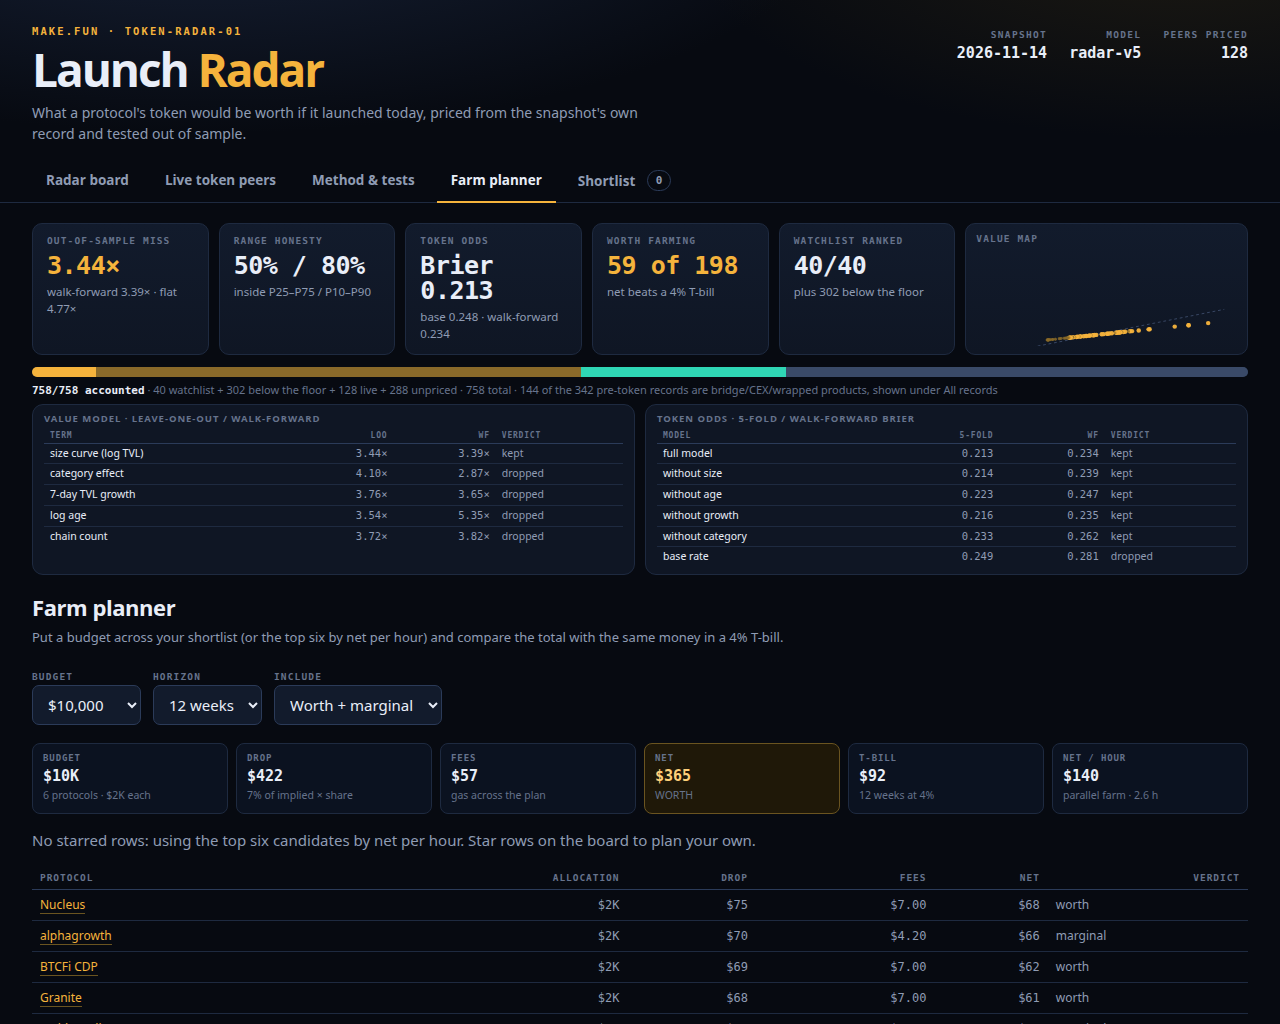
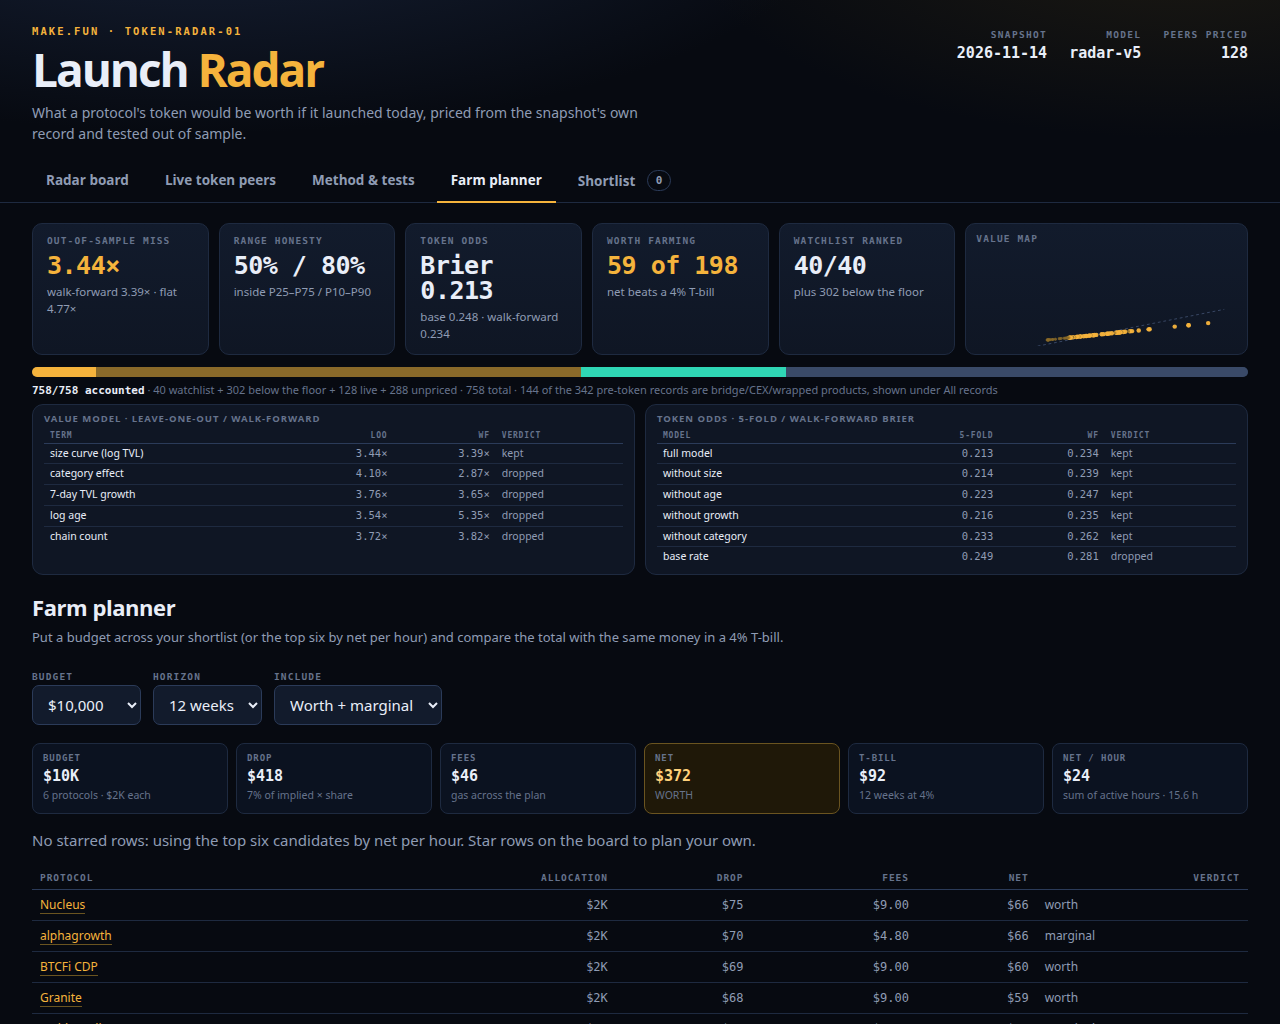
Fix the farm economics the review found
Count all three one-off gas steps in the plan fees, sum active hours
across a portfolio instead of taking the max, and filter the planner's
worth-only view on the verdict at the allocated size rather than the
10,000-dollar verdict.

diff --git a/dashboard/app.js b/dashboard/app.js
@@ -659,24 +659,39 @@
     var horizon = Number($('#planHorizon').value) || 12;
     var risk = $('#planRisk').value;
     var owned = R.rows.filter(function (r) { return pins.has(r.slug); });
-    var chosen = owned.length ? owned : R.rows.filter(function (r) { return r.candidate && r.plan.verdict !== 'skip'; }).sort(function (a, b) { return b.plan.perHour - a.plan.perHour; }).slice(0, 6);
-    if (risk === 'worth') chosen = chosen.filter(function (r) { return r.plan.verdict === 'worth'; });
+    var pool = owned.length ? owned : R.rows.filter(function (r) { return r.candidate && r.plan.verdict !== 'skip'; }).sort(function (a, b) { return b.plan.perHour - a.plan.perHour; }).slice(0, 6);
+    if (risk === 'worth') {
+      var probe = budget / Math.max(1, pool.length);
+      for (var pass = 0; pass < 5; pass++) {
+        var kept = pool.filter(function (r) { return farm(r, probe, horizon).verdict === 'worth'; });
+        if (kept.length === 0) { pool = []; break; }
+        var next = budget / kept.length;
+        if (kept.length === pool.length && Math.abs(next - probe) < 1) { pool = kept; probe = next; break; }
+        pool = kept; probe = next;
+      }
+    }
     var host = $('#planBody');
     host.replaceChildren();
-    if (chosen.length === 0) {
-      host.appendChild(el('p', 'empty', owned.length ? 'No shortlisted row passes this filter. Widen it or star other rows.' : 'No candidate passes this filter. Lower the bar or switch the verdict.'));
+    if (pool.length === 0) {
+      host.appendChild(el('p', 'empty', owned.length ? 'No shortlisted row is worth farming at this budget. Raise the budget or widen the filter.' : 'No candidate is worth farming at this budget. Raise the budget or switch the verdict.'));
       return;
     }
-    var alloc = budget / chosen.length;
-    var rows = chosen.map(function (r) { return { r: r, f: farm(r, alloc, horizon) }; });
+    var alloc = budget / pool.length;
+    var rows = pool.map(function (r) { return { r: r, f: farm(r, alloc, horizon) }; });
+    if (risk === 'worth') {
+      rows = rows.filter(function (x) { return x.f.verdict === 'worth'; });
+      alloc = budget / Math.max(1, rows.length);
+      rows = rows.map(function (x) { return { r: x.r, f: farm(x.r, alloc, horizon) }; });
+    }
+    var chosen = rows.map(function (x) { return x.r; });
     var drop = rows.reduce(function (s, x) { return s + x.f.drop; }, 0);
     var fees = rows.reduce(function (s, x) { return s + x.f.fees; }, 0);
     var net = drop - fees;
     var bench = budget * 0.04 * horizon / 52;
-    var hours = Math.max.apply(null, chosen.map(function (r) { return r.plan.hours; }));
+    var hours = rows.reduce(function (s, x) { return s + x.r.plan.hours; }, 0);
     var verdict = net > bench ? 'worth' : net > 0 ? 'marginal' : 'skip';
     var totals = el('div', 'terms planTotals');
-    [['Budget', money(budget), chosen.length + ' protocols · ' + money(alloc) + ' each'], ['Drop', money(drop), '7% of implied × share'], ['Fees', money(fees), 'gas across the plan'], ['Net', money(net), verdict.toUpperCase()], ['T-bill', money(bench), horizon + ' weeks at 4%'], ['Net / hour', money(net / Math.max(0.1, hours)), 'parallel farm · ' + hours + ' h']].forEach(function (t) {
+    [['Budget', money(budget), chosen.length + ' protocols · ' + money(alloc) + ' each'], ['Drop', money(drop), '7% of implied × share'], ['Fees', money(fees), 'gas across the plan'], ['Net', money(net), verdict.toUpperCase()], ['T-bill', money(bench), horizon + ' weeks at 4%'], ['Net / hour', money(net / Math.max(0.1, hours)), 'sum of active hours · ' + hours.toFixed(1) + ' h']].forEach(function (t) {
       var d = el('div', 'term' + (t[0] === 'Net' ? ' result' : ''));
       d.appendChild(el('span', null, t[0]));
       d.appendChild(el('b', null, t[1]));

diff --git a/lib/valuation.ts b/lib/valuation.ts
@@ -421,7 +421,7 @@ const farmPlan = (p: Protocol, implied: number, age: number | null, candidate: b
   const name = clean(p.name, 50);
   const weekly = Math.max(0.5, gas / 4);
   const exit = Math.max(1, gas / 2);
-  const fees = round(gas * 2 + weekly * weeks + exit, 2);
+  const fees = round(gas * 3 + weekly * weeks + exit, 2);
   const hours = round((20 + 10 + 15 + 10 + weeks * 15 + 10 + 30) / 60, 1);
   const action = actionFor(p);
   const variant = (PLAN_VARIANT.find(([re]) => re.test(p.category ?? '')) ?? [null, GENERIC_VARIANT])[1]!;
